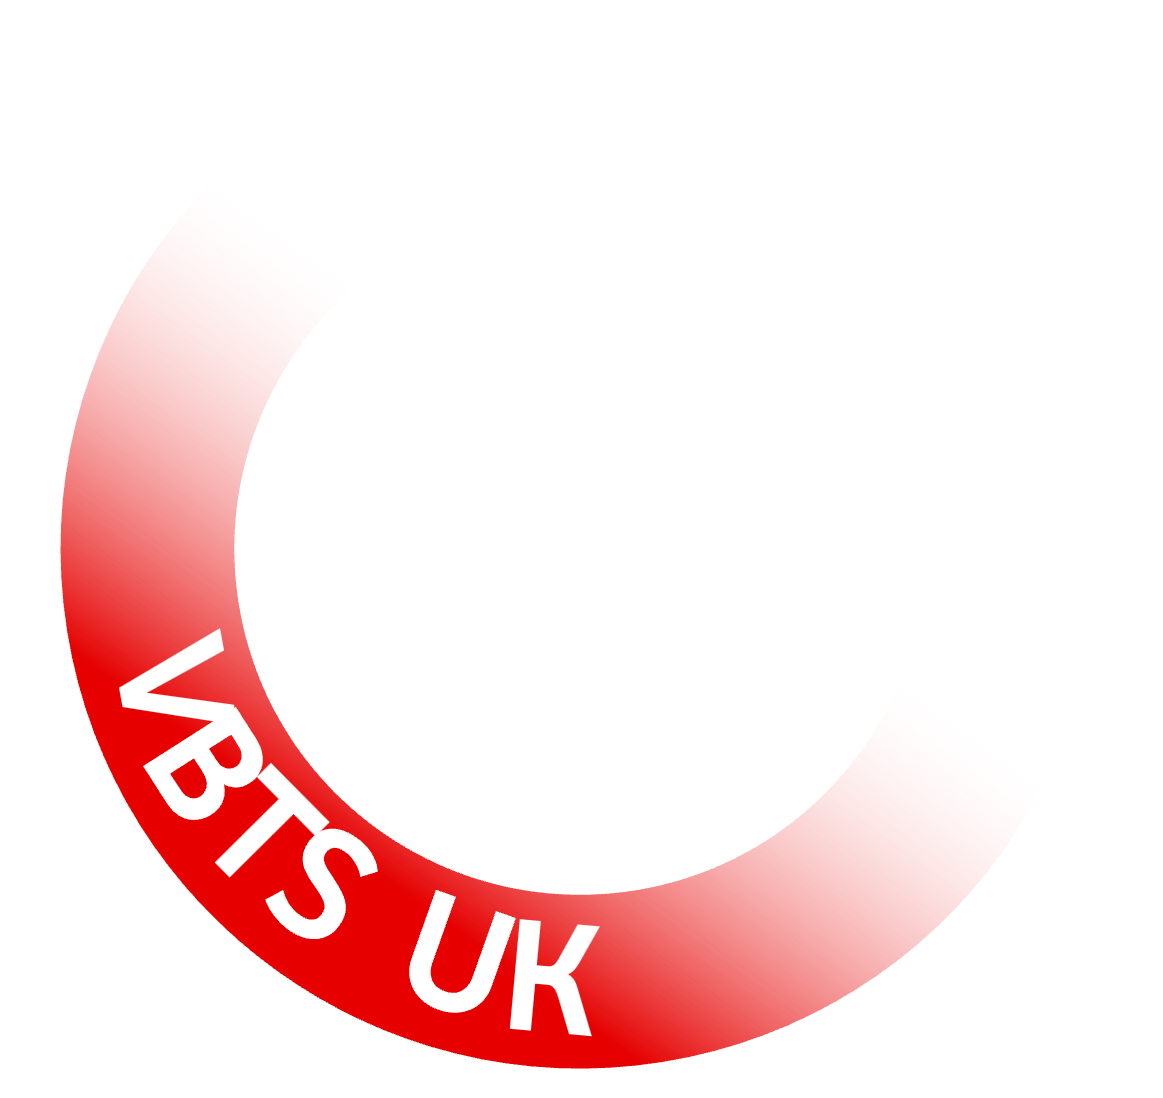
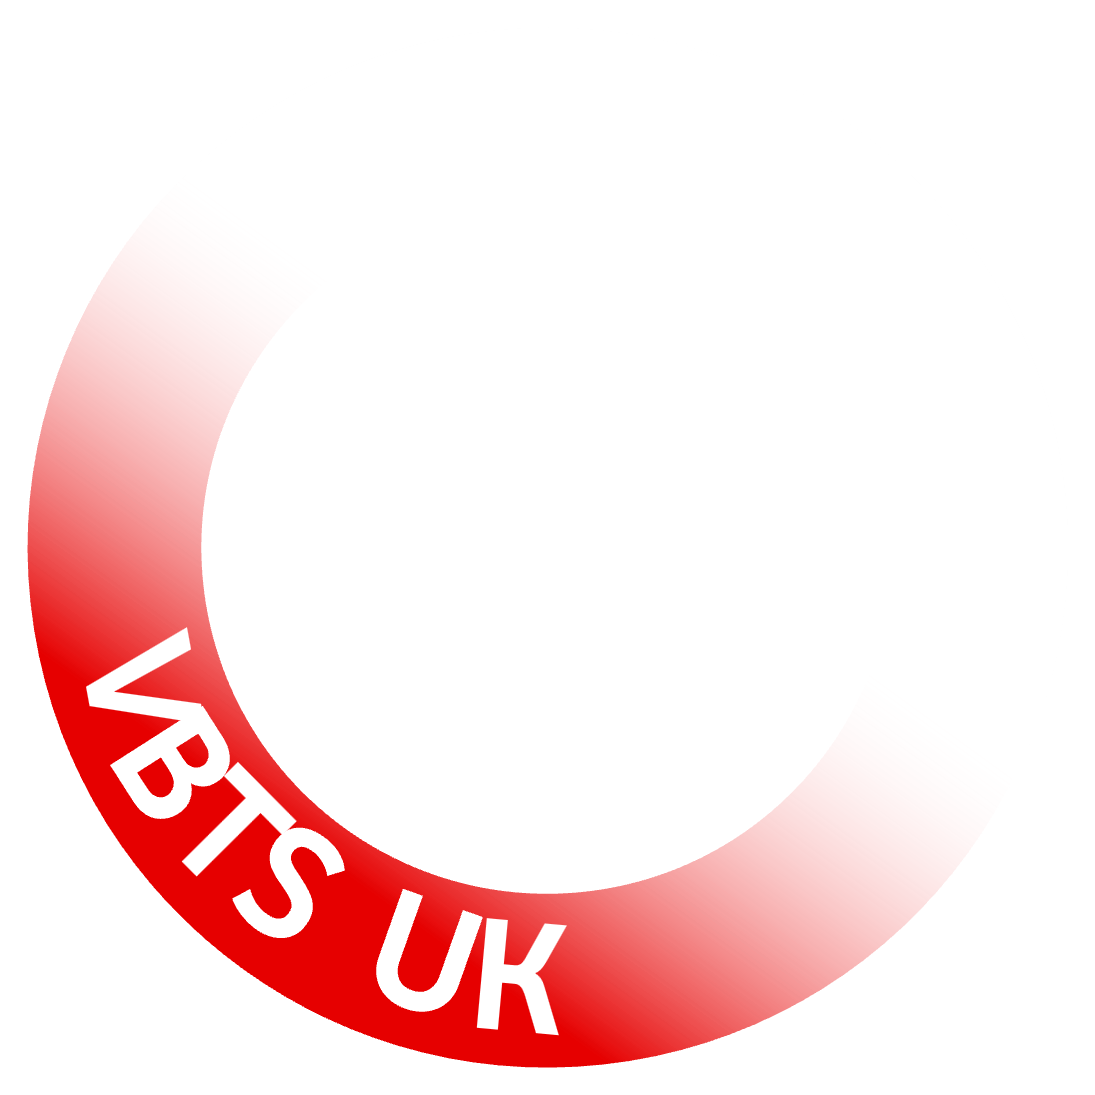
Cropping to square is working!

diff --git a/index.html b/index.html
@@ -86,12 +86,16 @@
 				<li><b>Save </b> your new picture by right-clicking and selecting 'save as'</li>
 				<li><b>Replace</b> your profile picture on all your work channels e.g Teams</li>
 			</ol>
-			<p><em>Note: square images work best!</em></p>
+			
+			<!-- <p><em>Note: square images work best!</em></p> -->
+			<!-- <a href='overlayNew.png' download>download me</a> -->
 
 			<div>
 				<input type="file" accept="image/*" onchange="loadFile(event)" id="file" class="inputfile" />
 				<label for="file">Select Profile Picture</label>
 			</div>
+
+			<canvas style="display:none;" id="canvasImg"></canvas>
 
 		</div>
 
@@ -119,10 +123,9 @@
 		var bannerHtml = "";
 
 		bannersJson.forEach(function (bannerItem) {
-			console.log("bannerItem: ", bannerItem);
 			bannerHtml += `<button class="p-0">
 								<div class="card">
-									<img src="${bannerItem.imgPlain}" class="card-img-top px-2" alt="...">
+									<img src="${bannerItem.imgPlain}" data-overlay="${bannerItem.imgOverlay}" class="card-img-top px-2 bannerPic" alt="...">
 								</div>
 							</button>`;
 		});
@@ -133,29 +136,100 @@
 
 
 	<script>
+		
+		//Add event listener for banner images
+		const bannerImgs = document.querySelectorAll('.bannerPic');
+
+		bannerImgs.forEach(el => el.addEventListener('click', event => {
+			applyBanner(event.target.getAttribute("data-overlay"));
+		}));
+
+		var applyBanner = function(picUrl) {
+
+			//get img data from canvas
+			var resizedImageData = document.getElementById("canvasImg").toDataURL();
+
+			createOverlay(resizedImageData, picUrl);
+
+		}
+	</script>
+
+	<script>
 	  var loadFile = function(event) {
 	    var reader = new FileReader();
 	    reader.onload = function() {
-	      createOverlay(reader.result);
+
+			// the desired aspect ratio of our output image (width / height)
+			const outputImageAspectRatio = 1;
+
+			// this image will hold our source image data
+			const inputImage = new Image();
+			inputImage.src = reader.result
+
+			// we want to wait for our image to load
+			inputImage.onload = () => {
+				//store the width and height of our image
+				const inputWidth = inputImage.naturalWidth;
+				const inputHeight = inputImage.naturalHeight;
+
+				// get the aspect ratio of the input image
+				const inputImageAspectRatio = inputWidth / inputHeight;
+
+				// if it's bigger than our target aspect ratio
+				let outputWidth = inputWidth;
+				let outputHeight = inputHeight;
+				if (inputImageAspectRatio > outputImageAspectRatio) {
+					outputWidth = inputHeight * outputImageAspectRatio;
+				} else if (inputImageAspectRatio < outputImageAspectRatio) {
+					outputHeight = inputWidth / outputImageAspectRatio;
+				}
+
+				// calculate the position to draw the image at
+				const outputX = (outputWidth - inputWidth) * 0.5;
+				const outputY = (outputHeight - inputHeight) * 0.5;
+
+				// create a canvas that will present the output image
+				const outputImage = document.getElementById('canvasImg');
+
+				// set it to the same size as the image
+				outputImage.width = outputWidth;
+				outputImage.height = outputHeight;
+
+				// draw our image at position 0, 0 on the canvas
+				const ctx = outputImage.getContext('2d');
+				ctx.drawImage(inputImage, outputX, outputY);
+
+				// show both the image and the canvas
+				// document.body.appendChild(inputImage);
+				// document.body.appendChild(outputImage);
+
+				var resizedImageData = document.getElementById("canvasImg").toDataURL();
+
+				createOverlay(resizedImageData, 'overlayNew.png');
+			};
+
 	    };
 	    reader.readAsDataURL(event.target.files[0]);
 	  };
 
-	var createOverlay = function(uploadImage) {
+
+
+	var createOverlay = function(uploadImage, bannerUrl) {
 	  	var baseImg = uploadImage;
 	  	Caman("#overlay-img", function () {
-			this.brightness(5).render();
+			this.brightness(5);
+			this.render();
 			this.newLayer(function() {
 			    this.setBlendingMode("normal");
 			    this.opacity(100);
 			    this.overlayImage(baseImg);
-				// this.crop(500, 500);
+
 		  	});
 
 		  	this.newLayer(function() {
 			    this.setBlendingMode("normal");
 			    this.opacity(100);
-			    this.overlayImage('overlayNew.png');
+			    this.overlayImage(bannerUrl);
 		  	});
 
 		  	$('#overlay-img').removeAttr('style');
@@ -166,6 +240,7 @@
 	</script>
        
         
+
 <script type="text/javascript" src="https://code.jquery.com/jquery-2.1.1.min.js"></script>
 
 </body>
